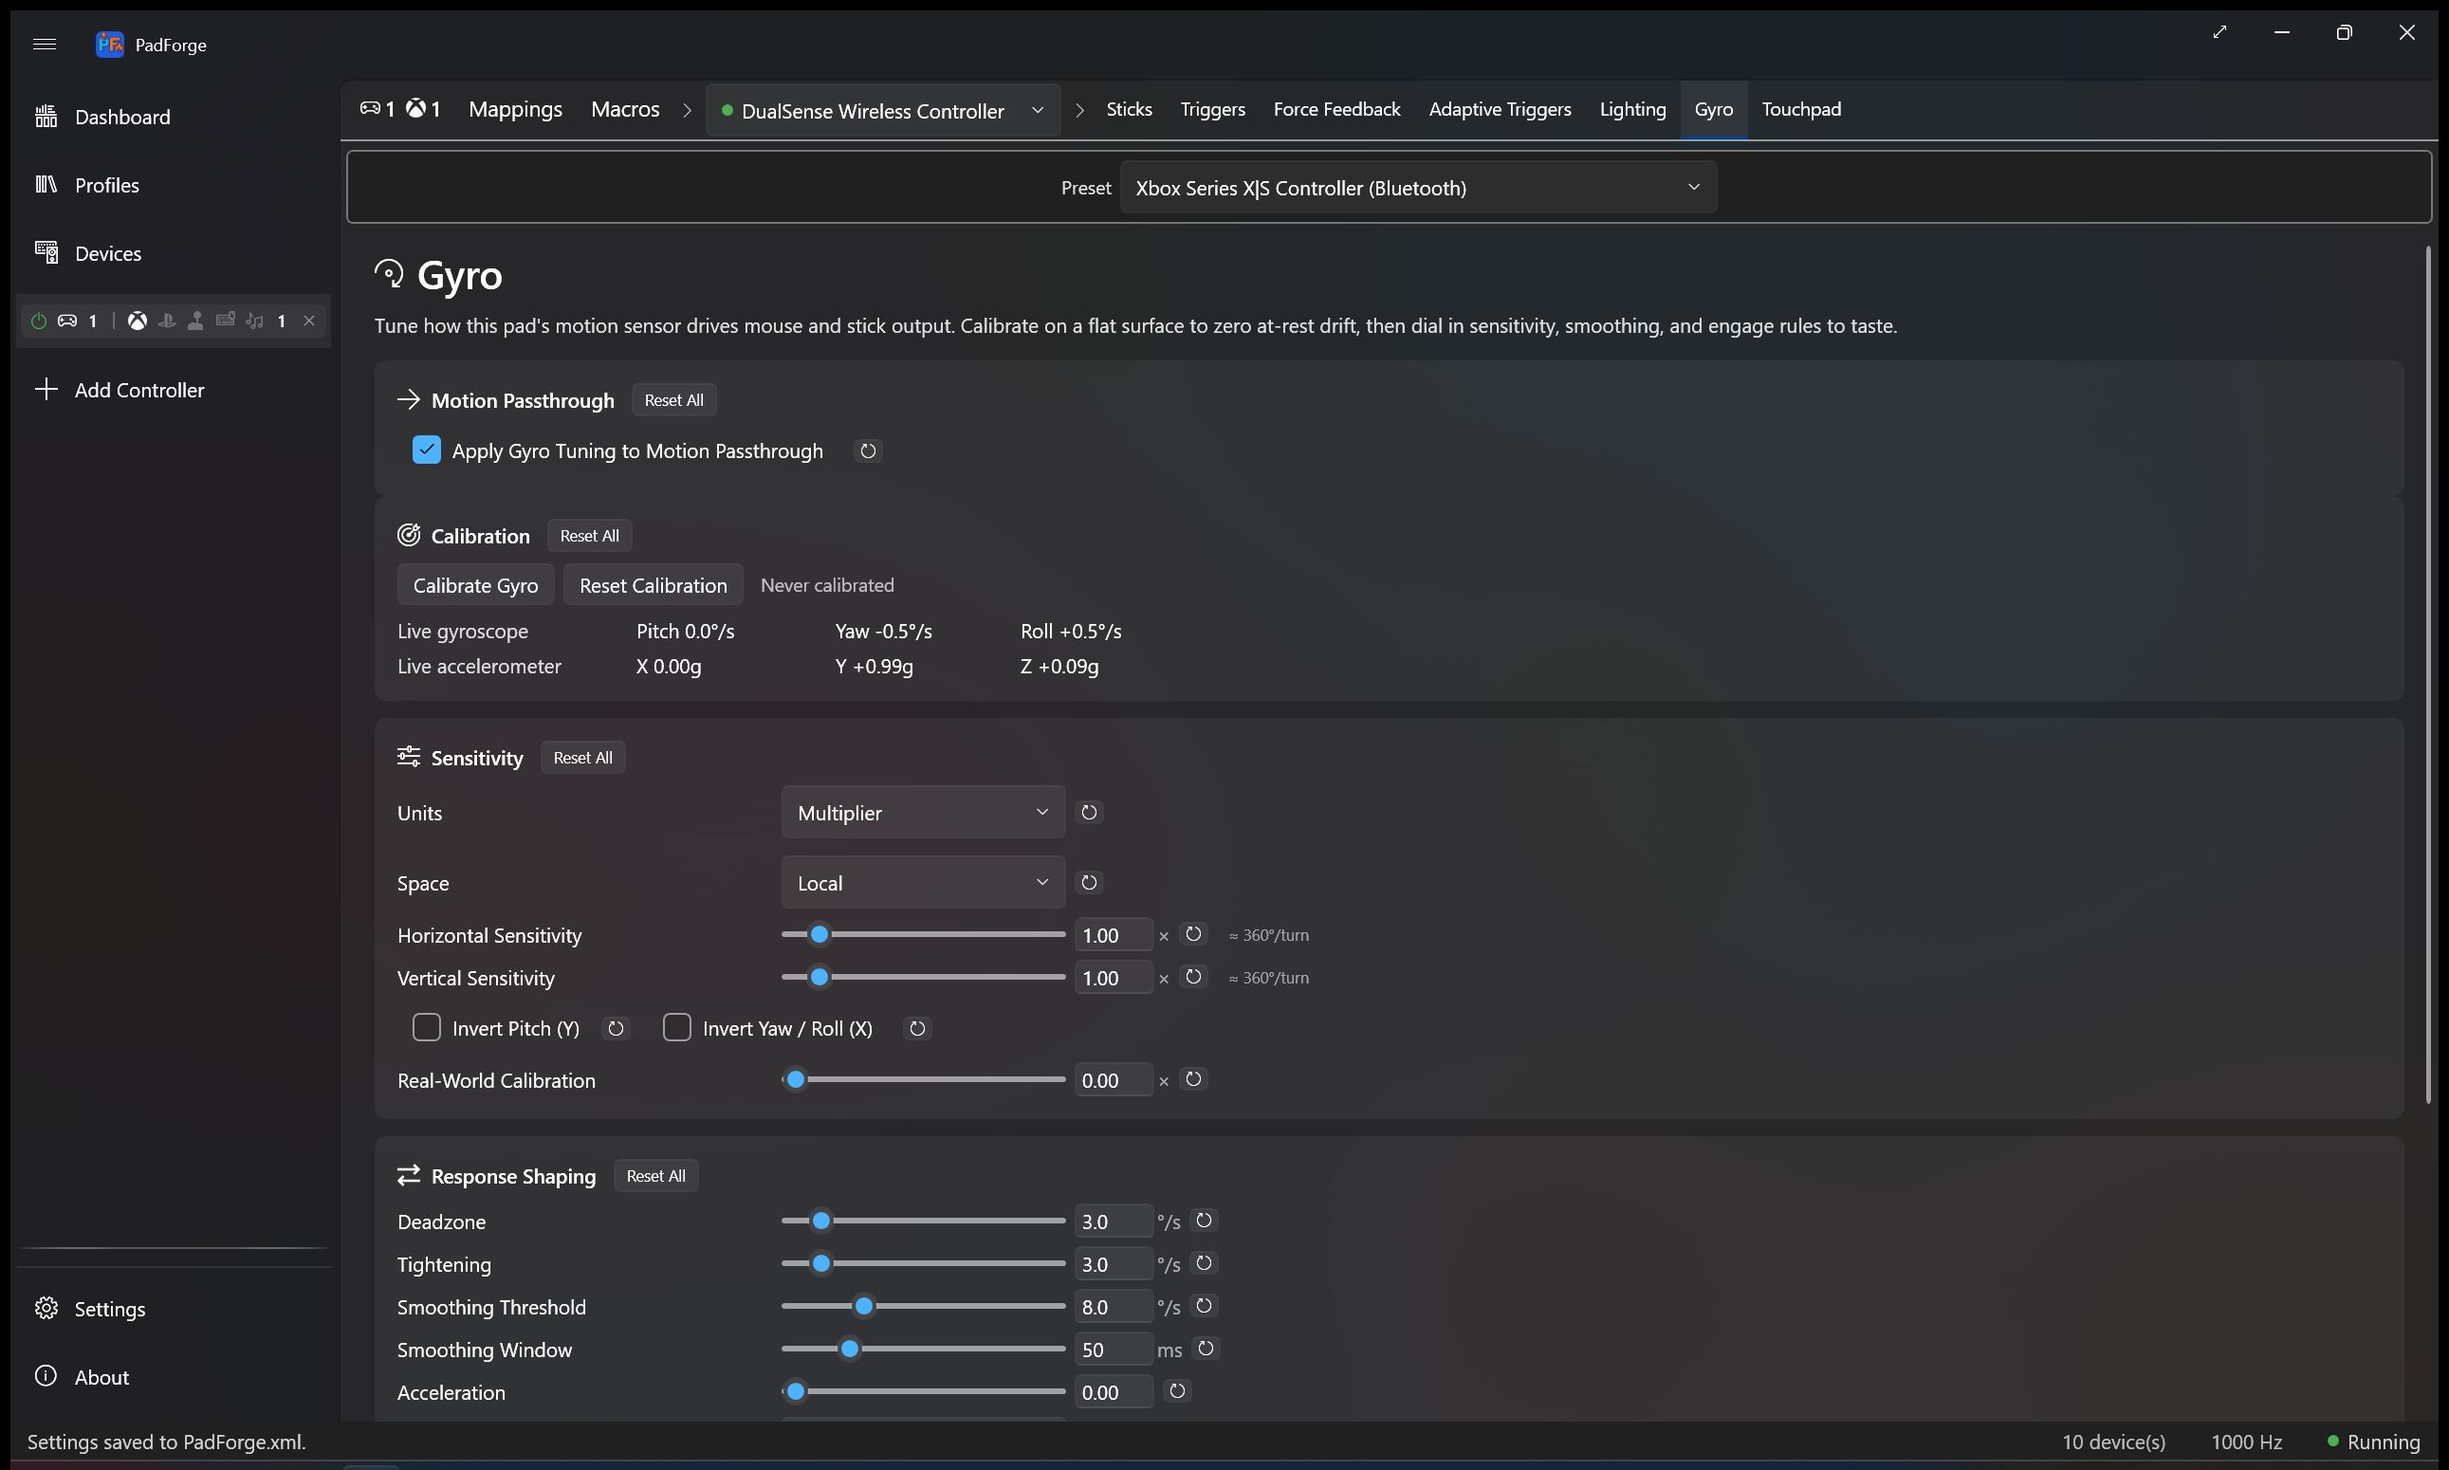
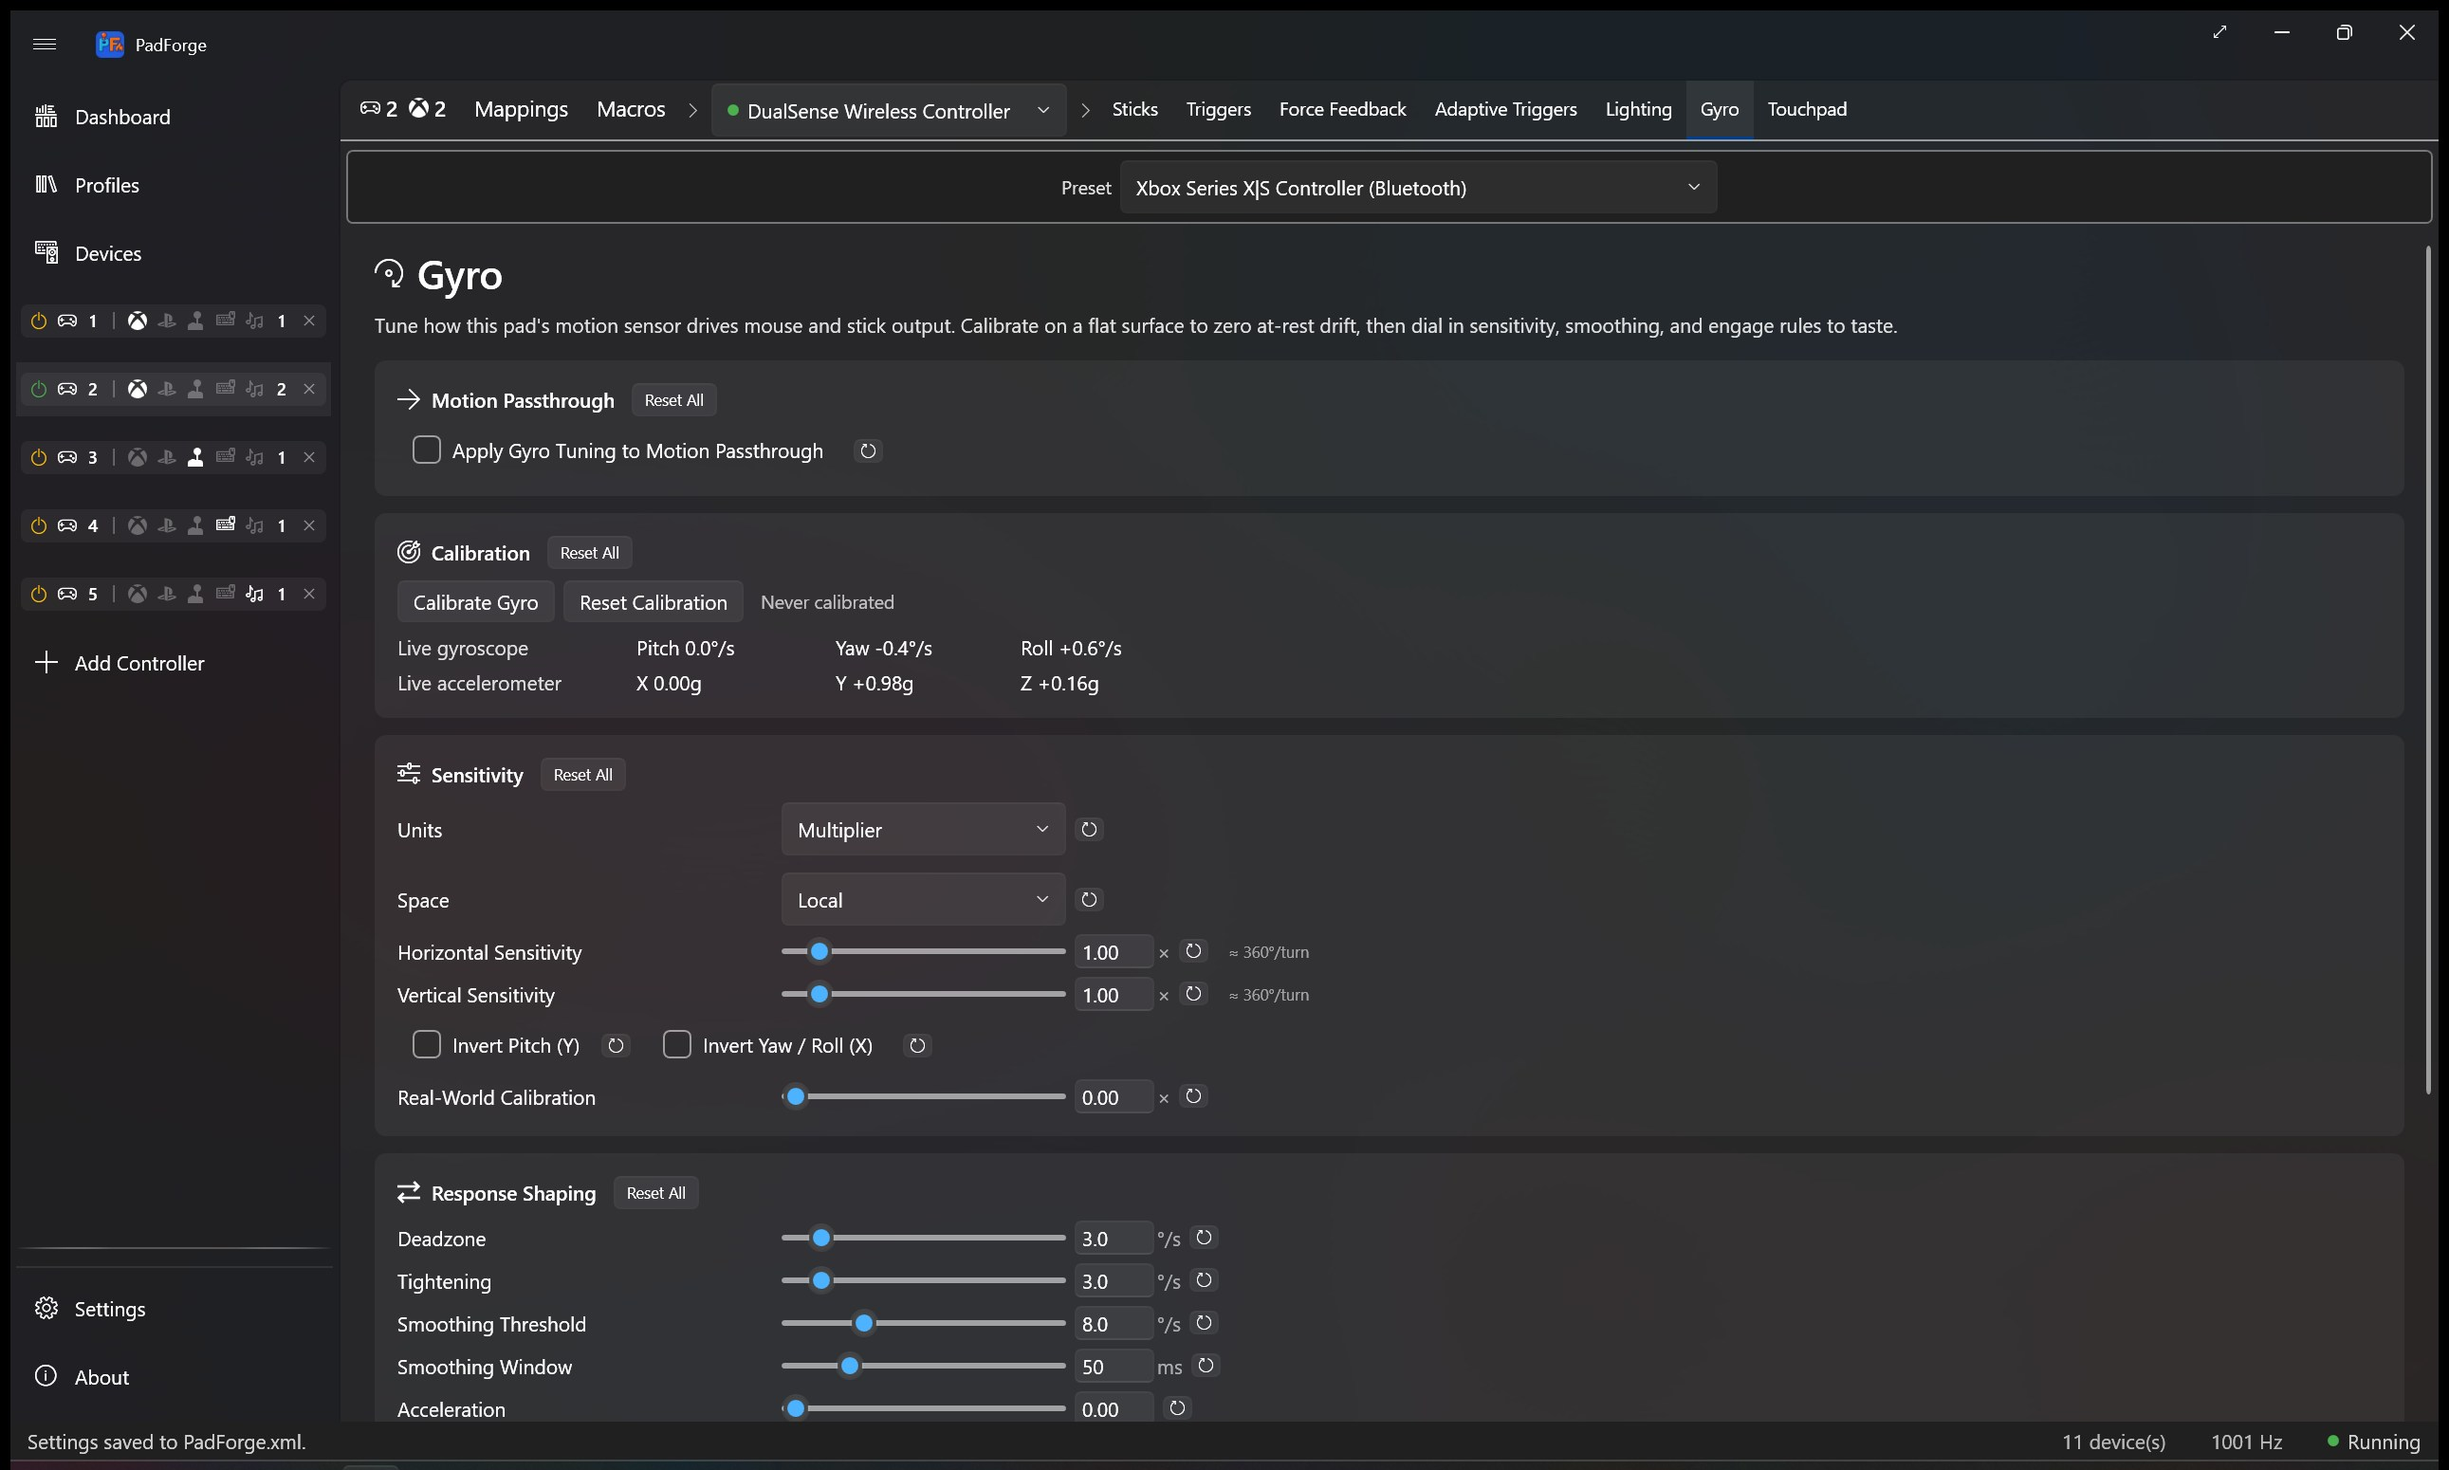
Gyro: motion passthrough off by default, fix card spacing
Flip the slot-wide "Apply Gyro Tuning to Motion Passthrough" toggle
from default-on to default-off. A fresh profile now hands the game a
clean passthrough; the user opts in to having the Gyro tab's
discretionary tuning (deadzone, sensitivity, smoothing, response
curve, invert) reach the virtual controller report. Calibration
drift correction is independent and always applies.

Restore the bottom margin between the Motion Passthrough and
Calibration cards. The Passthrough Border was overriding CardBorder
to Margin=0 with a stale comment about avoiding stacked top margins
on the next card; Calibration has no top margin so the override
just zeroed the gap. Default 0,0,0,12 now matches every other
adjacent-card gap on the Pad page.

Side touch: add pad-gyro / pad-touchpad / pad-impulse-triggers
entries to tools/convert_screenshots.ps1 (they were missing from the
PNG->JPG map). Refresh screenshots/gyro.jpg from a multi-slot
PadForge.xml capture.

Flip locations:
- PadSetting.cs: GyroApplyTuningToPassthrough default "1" -> "0"
- PadViewModel.cs: _gyroApplyTuningToPassthrough = false, reset
  command -> false
- InputService.cs: TryParseBoolPs fallback false, defaultTuning
  ApplyToPassthrough = false
- SourceCoercion.cs: GyroTuning struct default comment + provider
  fallback false
- SettingsService.cs: load path -> strict "== 1" so absent element
  on upgraded profile reads false

diff --git a/PadForge.App/Views/PadPage.xaml b/PadForge.App/Views/PadPage.xaml
@@ -4865,9 +4865,10 @@
                         <!-- Tab-wide scope toggle: whether this tab's tuning
                              reaches the virtual controller's motion passthrough
                              (gyro report + DSU), not only gyro-as-mapping-source.
-                             Margin="0" overrides CardBorder's default bottom-12
-                             so it doesn't stack with the next card's top-12. -->
-                        <Border Style="{StaticResource CardBorder}" Margin="0">
+                             Uses CardBorder's default bottom-12 margin so the
+                             gap between this and the Calibration card matches
+                             every other adjacent-card gap on the Pad page. -->
+                        <Border Style="{StaticResource CardBorder}">
                             <StackPanel>
                                 <StackPanel Orientation="Horizontal" Margin="0,0,0,8">
                                     <TextBlock Text="&#xE72A;" FontFamily="Segoe MDL2 Assets" FontSize="16"

diff --git a/PadForge.App/ViewModels/PadViewModel.cs b/PadForge.App/ViewModels/PadViewModel.cs
@@ -1433,10 +1433,12 @@ namespace PadForge.ViewModels
             set => SetProperty(ref _gyroInvertYawRoll, value);
         }
 
-        // Default true: a user expects the Gyro tab knobs to affect the
-        // motion the virtual controller hands to the game. Unchecking it
-        // makes the passthrough relay the raw sensor reading.
-        private bool _gyroApplyTuningToPassthrough = true;
+        // Default false: a user expects a clean passthrough — the
+        // virtual controller hands the game the raw sensor reading.
+        // Checking it routes the Gyro tab's tuning (deadzone, sens,
+        // smoothing, response curve, invert) through the passthrough
+        // too, in addition to gyro-as-mapping-source reads.
+        private bool _gyroApplyTuningToPassthrough = false;
         public bool GyroApplyTuningToPassthrough
         {
             get => _gyroApplyTuningToPassthrough;
@@ -1520,7 +1522,7 @@ namespace PadForge.ViewModels
 
         private RelayCommand _resetGyroApplyToPassthroughCommand;
         public RelayCommand ResetGyroApplyToPassthroughCommand =>
-            _resetGyroApplyToPassthroughCommand ??= new RelayCommand(() => GyroApplyTuningToPassthrough = true);
+            _resetGyroApplyToPassthroughCommand ??= new RelayCommand(() => GyroApplyTuningToPassthrough = false);
 
         private RelayCommand _resetGyroRealWorldCalibrationCommand;
         public RelayCommand ResetGyroRealWorldCalibrationCommand =>

diff --git a/PadForge.Engine/Common/Mapping/SourceCoercion.cs b/PadForge.Engine/Common/Mapping/SourceCoercion.cs
@@ -124,7 +124,8 @@ namespace PadForge.Engine.Common.Mapping
             // When true, this whole tuning chain is applied to the
             // virtual controller's motion passthrough (Sony report
             // packer + DSU broadcast), not only to gyro-as-mapping-
-            // source reads. Default true. See GetPassthroughGyro.
+            // source reads. Default false — fresh profiles relay the
+            // raw sensor reading. See GetPassthroughGyro.
             public bool ApplyToPassthrough;
         }
 
@@ -187,7 +188,7 @@ namespace PadForge.Engine.Common.Mapping
                     Space = "Local", PlayerYawRelax = 1.41f, WorldSideReduction = 0.125f,
                     TighteningRadPerSec = 0f, SmoothingThresholdRadPerSec = 0f, SmoothingWindowSeconds = 0.05f,
                     RealWorldCalibration = 0f,
-                    ApplyToPassthrough = true,
+                    ApplyToPassthrough = false,
                 };
             return provider(deviceGuid, slotIndex);
         }

diff --git a/PadForge.Engine/Data/PadSetting.cs b/PadForge.Engine/Data/PadSetting.cs
@@ -528,9 +528,10 @@ namespace PadForge.Engine.Data
         /// When "0", the passthrough relays the raw sensor reading and
         /// the Gyro tab affects only gyro-as-mapping-source reads.
         /// Stored per-(device, slot) like the rest of the gyro tuning.
-        /// Defaults to "1" so an absent element on an upgraded profile
-        /// applies the tuning.</summary>
-        [XmlElement] public string GyroApplyTuningToPassthrough { get; set; } = "1";
+        /// Defaults to "0" so a fresh profile (or an absent element on
+        /// an upgraded one) hands the game a clean passthrough; the
+        /// user opts in to having tuning reach the virtual controller.</summary>
+        [XmlElement] public string GyroApplyTuningToPassthrough { get; set; } = "0";
 
         // ─────────────────────────────────────────────
         //  Axis-to-button threshold

diff --git a/PadForge.App/Services/InputService.cs b/PadForge.App/Services/InputService.cs
@@ -505,7 +505,7 @@ namespace PadForge.Services
             var defaultTuning = new PadForge.Engine.Common.Mapping.SourceCoercion.GyroTuning
             {
                 SensH = 1f, SensV = 1f, OutputCurve = "Linear",
-                ApplyToPassthrough = true,
+                ApplyToPassthrough = false,
             };
             PadForge.Engine.Common.Mapping.SourceCoercion.GyroTuningProvider = (deviceGuid, slotIndex) =>
             {
@@ -549,7 +549,7 @@ namespace PadForge.Services
                     AimEngageDescriptor = ps.GyroAimEngageButton ?? "",
                     InvertPitch = TryParseBoolPs(ps.GyroInvertPitch, false),
                     InvertYawRoll = TryParseBoolPs(ps.GyroInvertYawRoll, false),
-                    ApplyToPassthrough = TryParseBoolPs(ps.GyroApplyTuningToPassthrough, true),
+                    ApplyToPassthrough = TryParseBoolPs(ps.GyroApplyTuningToPassthrough, false),
                 };
             };
 

diff --git a/PadForge.App/Services/SettingsService.cs b/PadForge.App/Services/SettingsService.cs
@@ -1764,7 +1764,7 @@ namespace PadForge.Services
                 padVm.GyroAimEngageMode = string.IsNullOrEmpty(ps.GyroAimEngageMode) ? "Hold" : ps.GyroAimEngageMode;
                 padVm.GyroInvertPitch = ps.GyroInvertPitch == "1";
                 padVm.GyroInvertYawRoll = ps.GyroInvertYawRoll == "1";
-                padVm.GyroApplyTuningToPassthrough = ps.GyroApplyTuningToPassthrough != "0";
+                padVm.GyroApplyTuningToPassthrough = ps.GyroApplyTuningToPassthrough == "1";
 
                 // Load audio bass rumble settings.
                 padVm.AudioRumbleEnabled = ps.AudioRumbleEnabled == "1";
